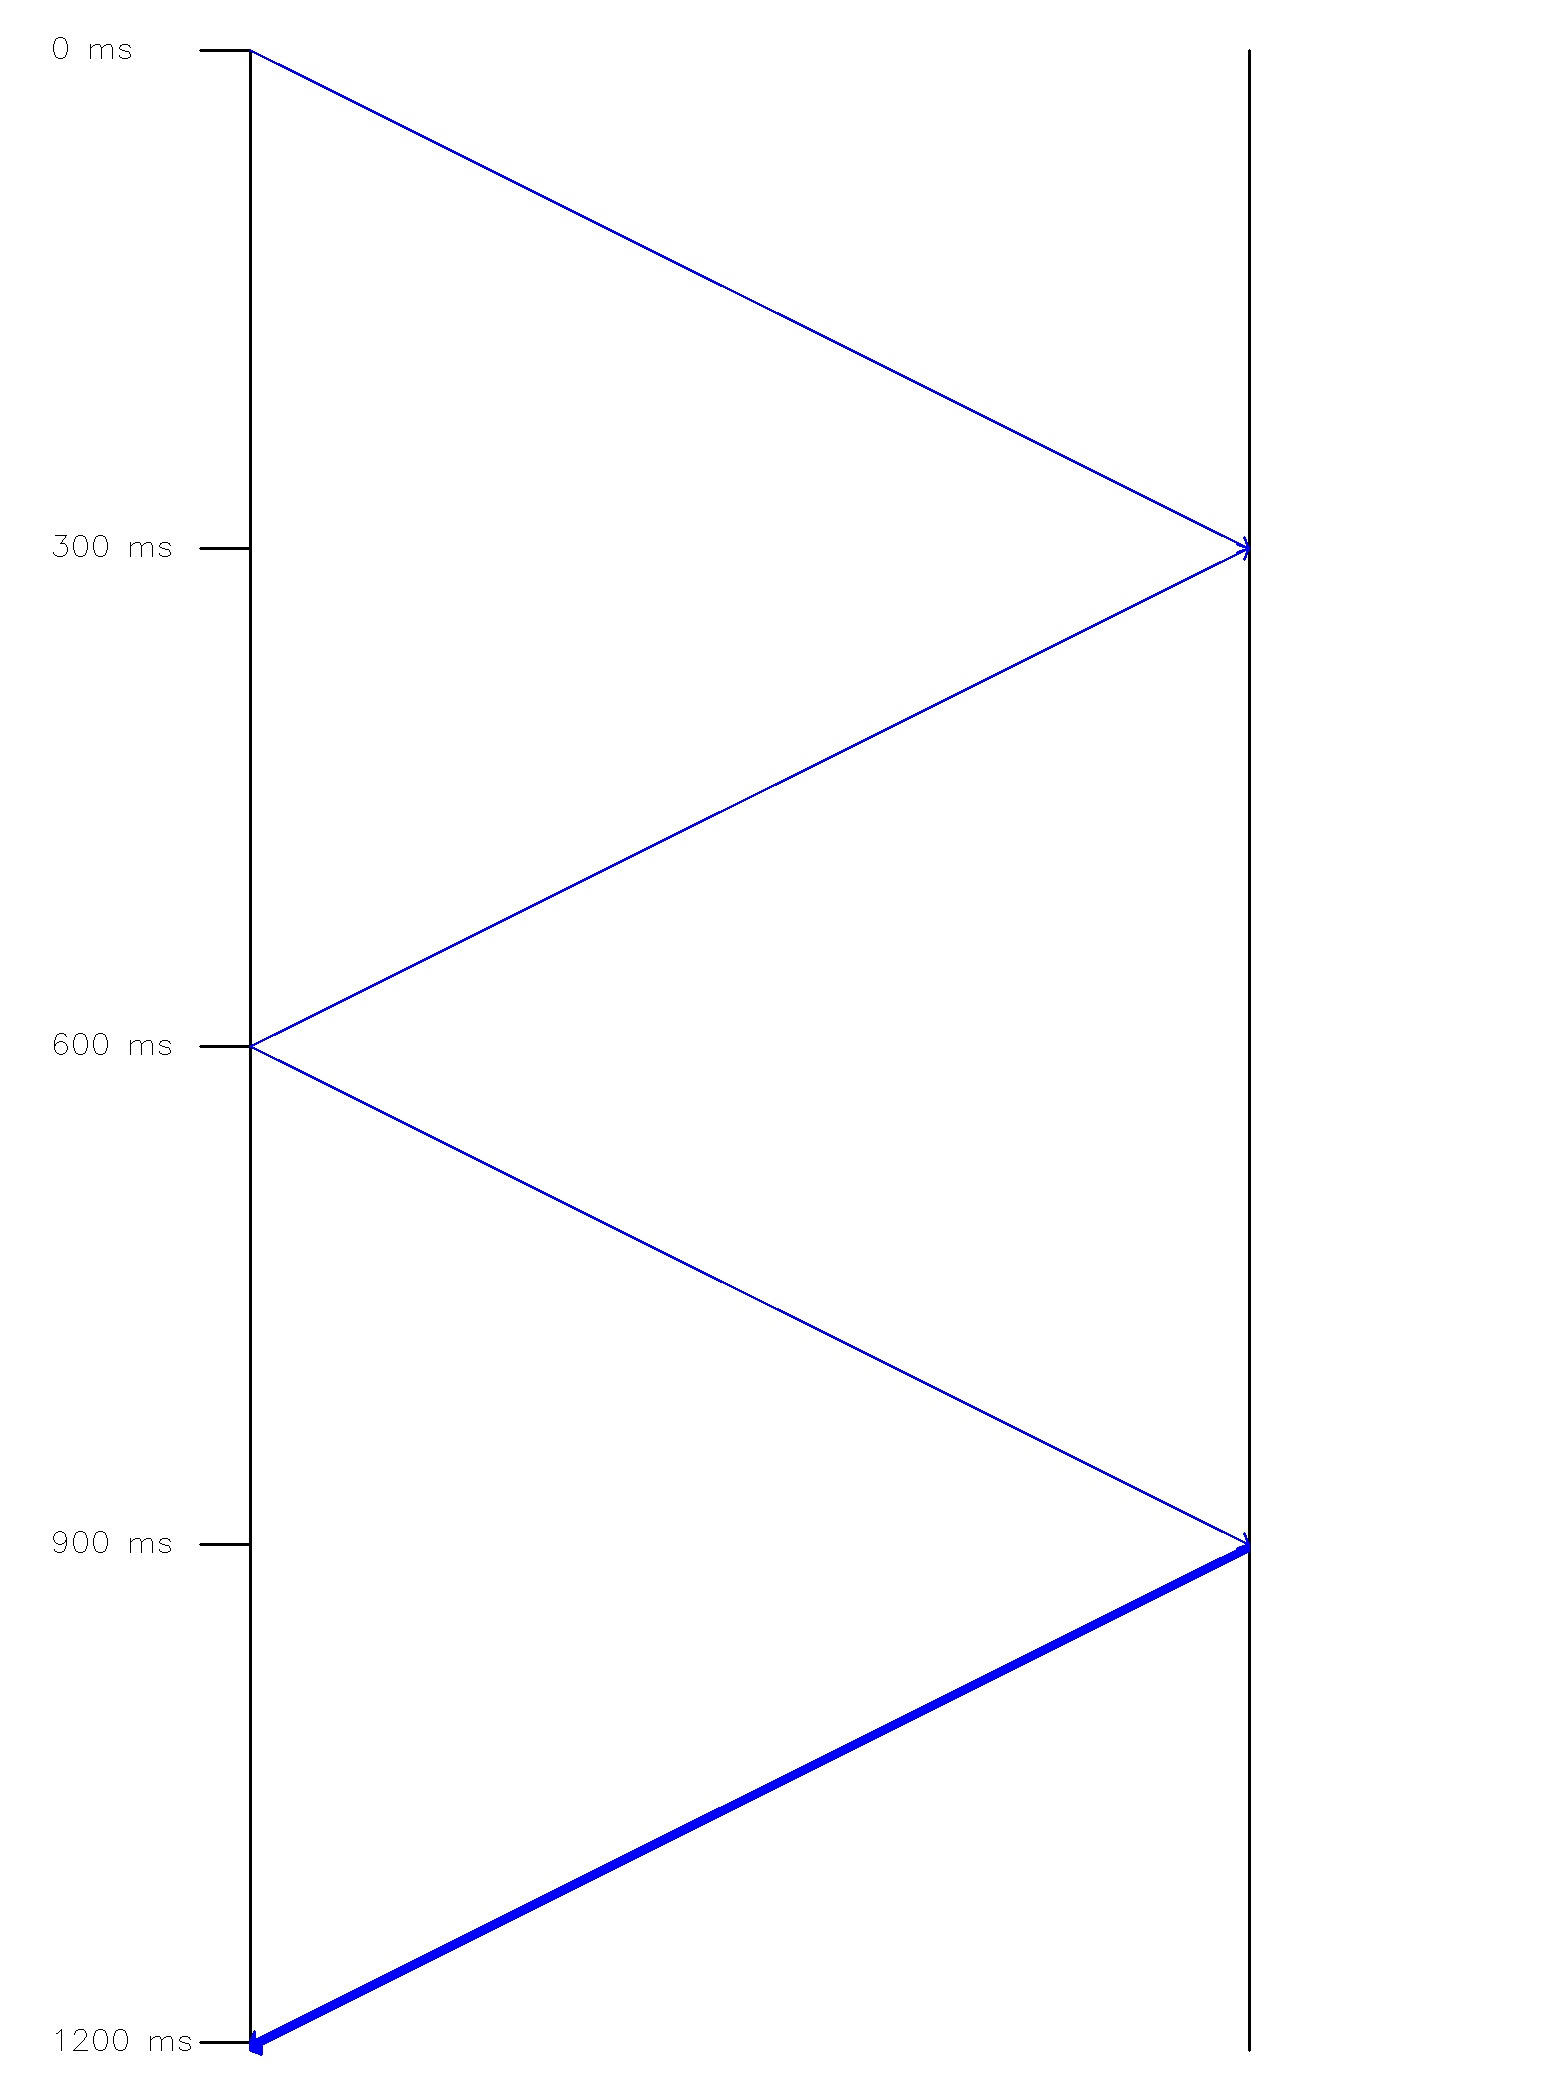
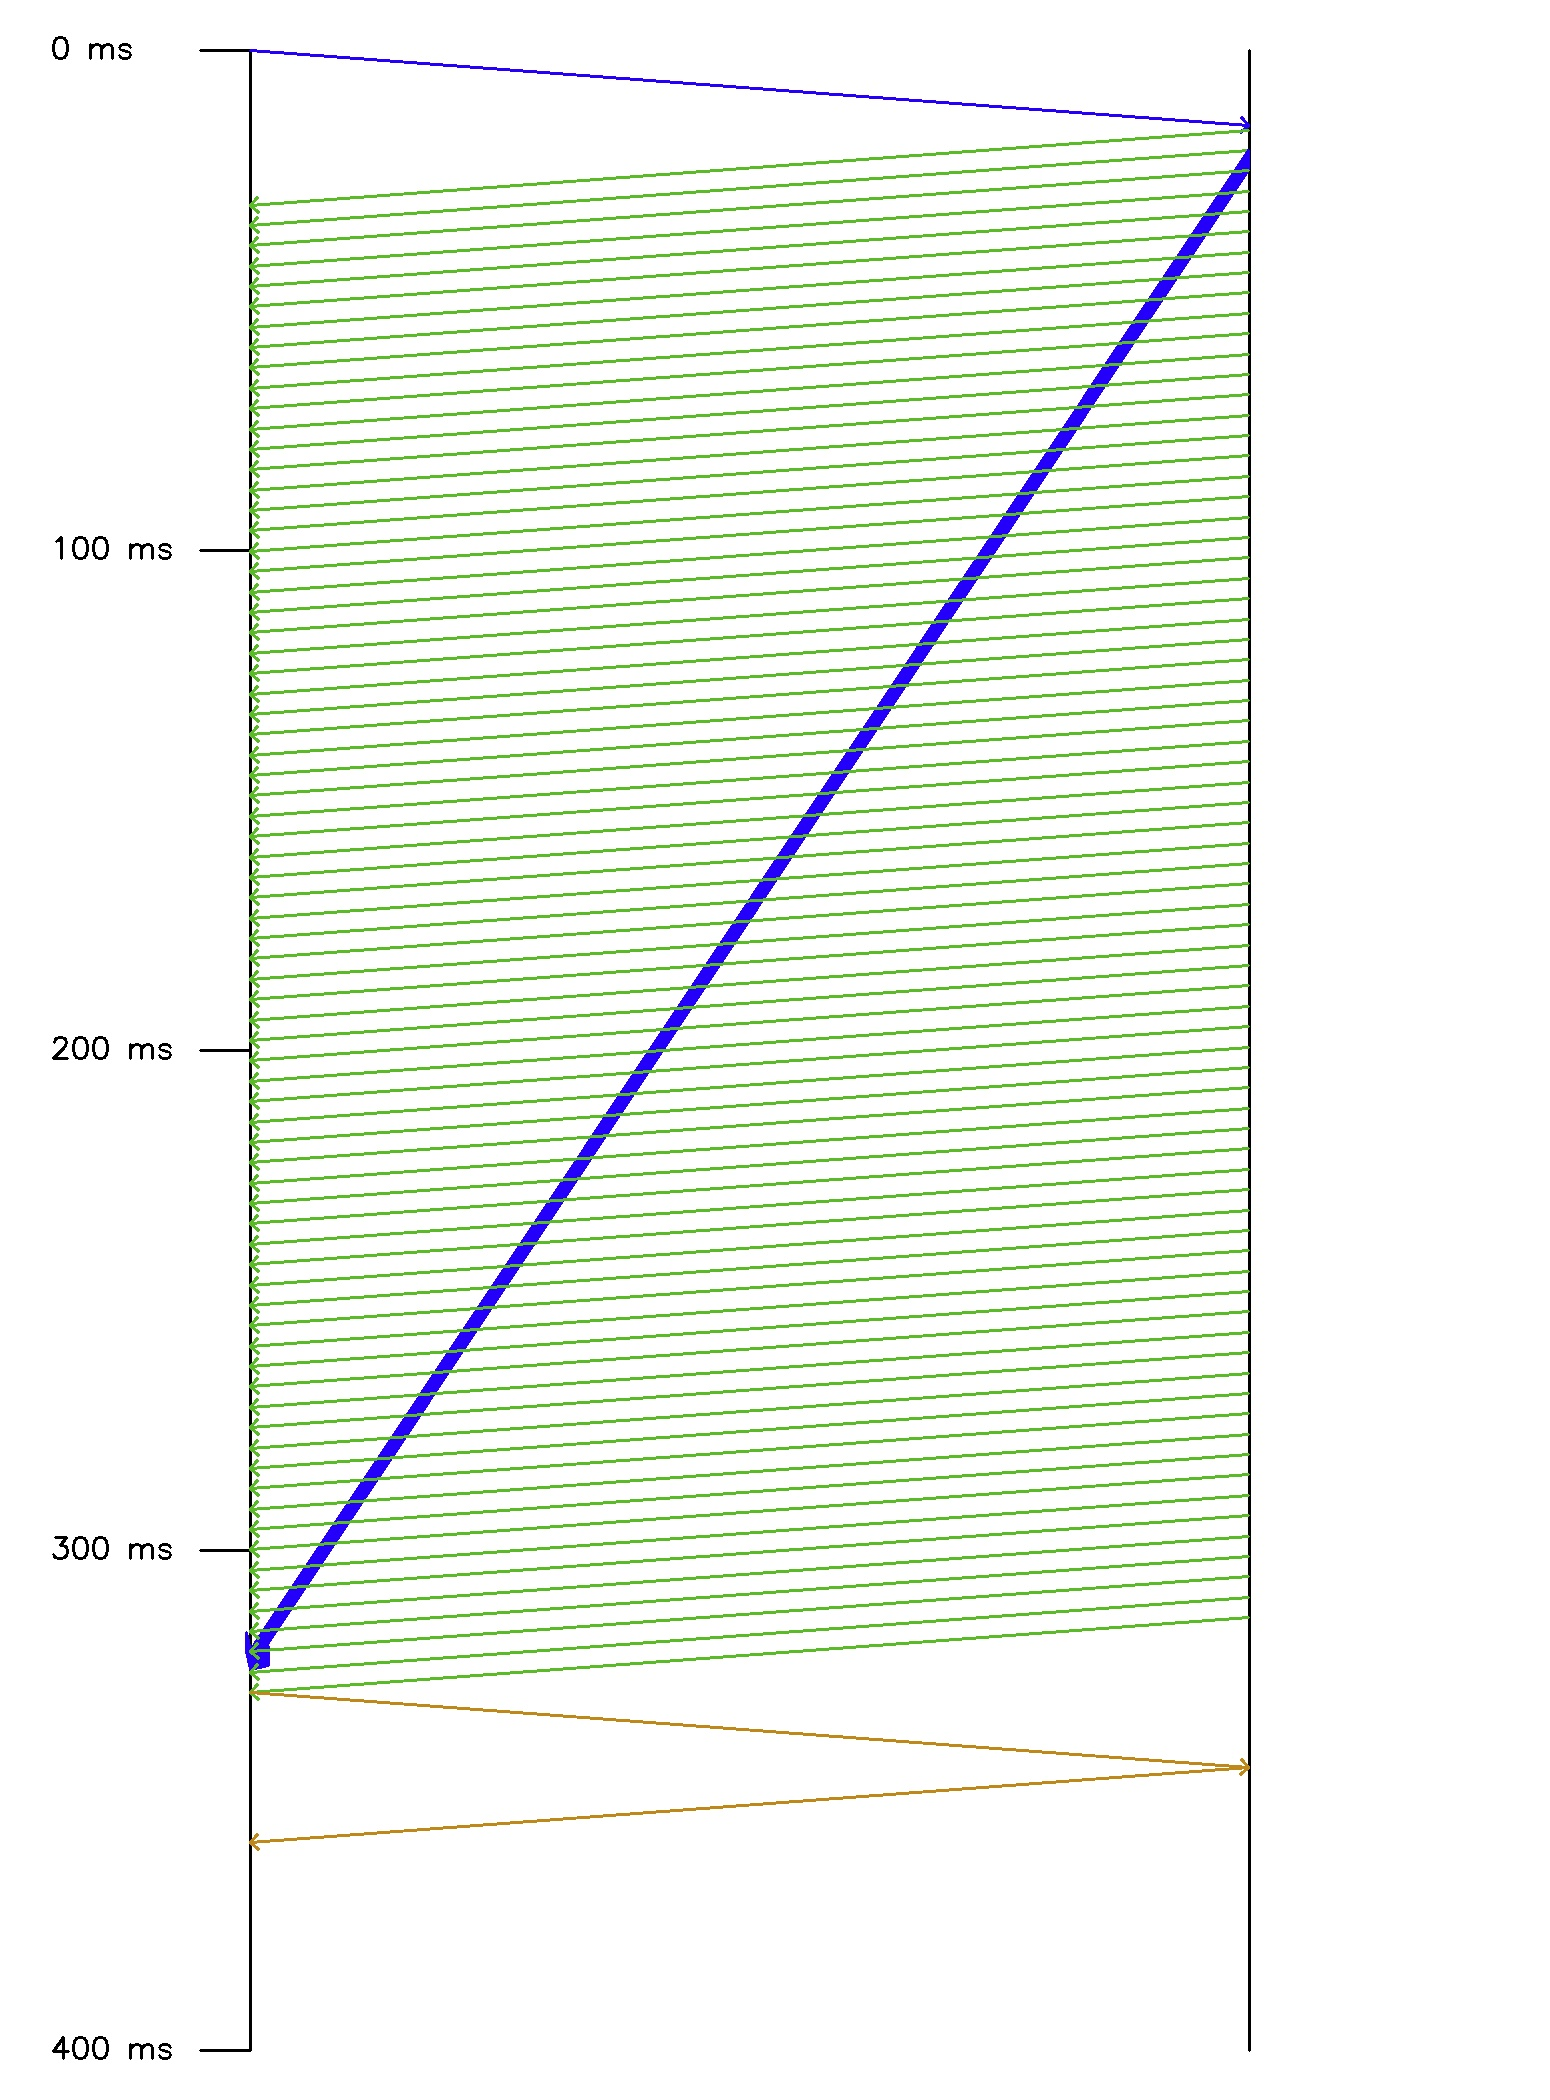
init

diff --git a/PlotMessageSequenceChartCalc.py b/PlotMessageSequenceChartCalc.py
@@ -120,7 +120,7 @@ IMG_WIDTH = 1250
 IMG_HEIGHT = 2000
 
 #us_to_height = IMG_HEIGHT / diff_timestamp
-us_to_height = IMG_HEIGHT / 1204000
+us_to_height = IMG_HEIGHT / 400000
 
 PADDING_LEFT = 250
 PADDING_RIGHT = 50
@@ -132,10 +132,10 @@ img.fill(255)
 
 # draw timestamps
 #step_timestamp = diff_timestamp / 4
-step_timestamp = 1200000 / 4
+step_timestamp = 400000 / 4
 for i in range(5):
     cv2.line(img, (PADDING_LEFT - 50, PADDING_TOP + int(i * step_timestamp * us_to_height)), (PADDING_LEFT, PADDING_TOP + int(i * step_timestamp * us_to_height)), (0, 0, 0), 2)
-    cv2.putText(img, str(int(i * step_timestamp / 1000)) + " ms", (50, PADDING_TOP + int(i * step_timestamp * us_to_height) + 8), cv2.FONT_HERSHEY_SIMPLEX, 1, (0, 0, 0), 1, 2)
+    cv2.putText(img, str(int(i * step_timestamp / 1000)) + " ms", (50, PADDING_TOP + int(i * step_timestamp * us_to_height) + 8), cv2.FONT_HERSHEY_SIMPLEX, 1, (0, 0, 0), 2, 2)
 
 # draw vertical lines
 cv2.line(img, (PADDING_LEFT, PADDING_TOP), (PADDING_LEFT, IMG_HEIGHT + PADDING_TOP), (0, 0, 0), 2)
@@ -152,19 +152,19 @@ for index, row in df[df["type"] == "local"].iterrows():
     packet_arrival = packet_arrival.to_dict()
     if row["direction"] == "out":
         if row["connection"] == TER_ID: # ter packet
-            color = (255, 0, 0)
+            color = (40, 186, 90)
         else: # sat packet
-            color = (0, 255, 0)
+            color = (250, 0, 36)
         if row["size"] == 32: # close packet
-            color = (0, 0, 255)
+            color = (26, 136, 190)
         cv2.arrowedLine(img, (PADDING_LEFT, PADDING_TOP + int((row["timestamp"] - min_timestamp) * us_to_height)), (IMG_WIDTH - 2, PADDING_TOP + int((packet_arrival["timestamp"][0] - min_timestamp) * us_to_height)), color, 2, tipLength=0.01)
     else:
         if row["connection"] == SAT_ID:
-            color = (255, 0, 0)
+            color = (250, 0, 36)
         else:
-            color = (0, 255, 0)
+            color = (40, 186, 90)
         if row["size"] == 32:
-            color = (0, 0, 255)
+            color = (26, 136, 190)
         cv2.arrowedLine(img, (IMG_WIDTH - 2, PADDING_TOP + int((packet_arrival["timestamp"][0] - min_timestamp) * us_to_height)), (PADDING_LEFT, PADDING_TOP + int((row["timestamp"] - min_timestamp) * us_to_height)), color, 2, tipLength=0.01)
 
 cv2.imshow("Test", img)

diff --git a/src/main.cpp b/src/main.cpp
@@ -27,28 +27,19 @@ int main(int argc, char *argv[]) {
     args::init(argc, argv);
 
     if (args::MODE == args::mode::LOCAL) { // local
-        if(args::TER_ENABLED) {
-            net::ipv4::SockAddr_In terSockAddr = net::ipv4::SockAddr_In(args::TER_STRING);
-            TER = new net::QuicClientConnection(terSockAddr.ip(), terSockAddr.port(), false, "ter_ticket_store.bin", "ter_token_store.bin");
-        }
-        if(args::SAT_ENABLED) {
-            net::ipv4::SockAddr_In satSockAddr = net::ipv4::SockAddr_In(args::SAT_STRING);
-            SAT = new net::QuicClientConnection(satSockAddr.ip(), satSockAddr.port(), true, "sat_ticket_store.bin", "sat_token_store.bin");
-        }
+        net::ipv4::SockAddr_In terSockAddr = net::ipv4::SockAddr_In(args::TER_STRING);
+        TER = new net::QuicClientConnection(terSockAddr.ip(), terSockAddr.port(), false, "ter_ticket_store.bin", "ter_token_store.bin");
+        net::ipv4::SockAddr_In sat_from_sockaddr = net::ipv4::SockAddr_In("172.30.20.2:6001");
+        net::ipv4::SockAddr_In sat_to_sockaddr = net::ipv4::SockAddr_In("172.30.21.3:6000");
+        int ret = ((net::QuicClientConnection *)TER)->probe_new_path((struct sockaddr*)&sat_from_sockaddr, (struct sockaddr*)&sat_to_sockaddr);
 
         net::Proxy proxy = net::Proxy(net::ipv4::SockAddr_In(args::PROXY_STRING));
 
         //exit when key pressed
         std::cin.ignore();
     } else { // remote
-        if(args::TER_ENABLED) {
-            net::ipv4::SockAddr_In terSockAddr = net::ipv4::SockAddr_In(args::TER_STRING);
-            TER = new net::QuicServerConnection(terSockAddr.port(), false);
-        }
-        if(args::SAT_ENABLED) {
-            net::ipv4::SockAddr_In satSockAddr = net::ipv4::SockAddr_In(args::SAT_STRING);
-            SAT = new net::QuicServerConnection(satSockAddr.port(), true);
-        }
+        net::ipv4::SockAddr_In terSockAddr = net::ipv4::SockAddr_In(args::TER_STRING);
+        TER = new net::QuicServerConnection(terSockAddr.port(), false);
 
         //exit when key pressed
         std::cin.ignore();

diff --git a/src/net/QuicClientConnection.cpp b/src/net/QuicClientConnection.cpp
@@ -76,6 +76,8 @@ namespace net {
                 picoquic_set_default_idle_timeout(_quic, 1000000000);
                 // https://github.com/private-octopus/picoquic/blob/1e2979e8db0957c8ee798940091c4d0ef13bf8af/picoquic/picoquic.h#L1088
                 picoquic_set_default_priority(_quic, 0xA);
+                // enable path callbacks
+                picoquic_enable_path_callbacks_default(_quic, 1);
             }
         }
 
@@ -319,6 +321,18 @@ namespace net {
                     connection->_disconnected = false;
 
                     break;
+                case picoquic_callback_path_available:
+                    LOG(INFO) << "picoquic_callback_path_available";
+                    break;
+                case picoquic_callback_path_suspended:
+                    LOG(INFO) << "picoquic_callback_path_suspended";
+                    break;
+                case picoquic_callback_path_deleted:
+                    LOG(INFO) << "picoquic_callback_path_deleted";
+                    break;
+                case picoquic_callback_path_quality_changed:
+                    LOG(INFO) << "picoquic_callback_path_quality_changed";
+                    break;
                 default:
                     LOG(INFO) << "default";
                     /* unexpected -- just ignore. */
@@ -404,6 +418,14 @@ namespace net {
         }
 
         //free_context(quicClientConnection);
+    }
+
+    int QuicClientConnection::probe_new_path(const struct sockaddr *addr_from, const struct sockaddr *addr_to) {
+        return picoquic_probe_new_path(_quic_cnx, addr_from, addr_to, picoquic_get_quic_time(_quic));
+    }
+
+    int QuicClientConnection::set_stream_path_affinity(uint64_t stream_id, uint64_t unique_path_id) {
+        return picoquic_set_stream_path_affinity(_quic_cnx, stream_id, unique_path_id);
     }
 
 } // net

diff --git a/PlotMessageSequenceCharCalcSat.py b/PlotMessageSequenceCharCalcSat.py
@@ -130,19 +130,19 @@ for index, row in df[df["type"] == "local"].iterrows():
     packet_arrival = packet_arrival.to_dict()
     if row["direction"] == "out":
         if row["connection"] == TER_ID: # ter packet
-            color = (0, 255, 0)
+            color = (40, 186, 90)
         else: # sat packet
-            color = (255, 0, 0)
+            color = (250, 0, 36)
         if row["size"] == 32: # close packet
-            color = (0, 0, 255)
+            color = (26, 136, 190)
         cv2.arrowedLine(img, (PADDING_LEFT, PADDING_TOP + int((row["timestamp"] - min_timestamp) * us_to_height)), (IMG_WIDTH - 2, PADDING_TOP + int((packet_arrival["timestamp"][0] - min_timestamp) * us_to_height)), color, 2, tipLength=0.01)
     else:
         if row["connection"] == SAT_ID:
-            color = (255, 0, 0)
+            color = (250, 0, 36)
         else:
-            color = (0, 255, 0)
+            color = (40, 186, 90)
         if row["size"] == 32:
-            color = (0, 0, 255)
+            color = (26, 136, 190)
         cv2.arrowedLine(img, (IMG_WIDTH - 2, PADDING_TOP + int((packet_arrival["timestamp"][0] - min_timestamp) * us_to_height)), (PADDING_LEFT, PADDING_TOP + int((row["timestamp"] - min_timestamp) * us_to_height)), color, 2, tipLength=0.01)
 
 cv2.imshow("Test", img)

diff --git a/src/net/QuicServerConnection.cpp b/src/net/QuicServerConnection.cpp
@@ -40,6 +40,8 @@ namespace net {
         picoquic_set_default_idle_timeout(_quic, 1000000000);
         // https://github.com/private-octopus/picoquic/blob/1e2979e8db0957c8ee798940091c4d0ef13bf8af/picoquic/picoquic.h#L1088
         picoquic_set_default_priority(_quic, 0xA);
+        // enable path callbacks
+        picoquic_enable_path_callbacks_default(_quic, 1);
 
         // start quic loop
         _packet_loop = std::async([this]{
@@ -306,6 +308,18 @@ namespace net {
                 // set _disconnected
                 connection->_disconnected = false;
 
+                break;
+            case picoquic_callback_path_available:
+                LOG(INFO) << "picoquic_callback_path_available";
+                break;
+            case picoquic_callback_path_suspended:
+                LOG(INFO) << "picoquic_callback_path_suspended";
+                break;
+            case picoquic_callback_path_deleted:
+                LOG(INFO) << "picoquic_callback_path_deleted";
+                break;
+            case picoquic_callback_path_quality_changed:
+                LOG(INFO) << "picoquic_callback_path_quality_changed";
                 break;
             default:
                 LOG(INFO) << "default";

diff --git a/src/net/QuicClientConnection.h b/src/net/QuicClientConnection.h
@@ -19,6 +19,10 @@ namespace net {
     public:
         QuicClientConnection(std::string server_name, int port, bool is_sat, std::string ticket_store_name, std::string token_store_name);
 
+        // paths
+        int probe_new_path(const struct sockaddr* addr_from, const struct sockaddr* addr_to);
+        int set_stream_path_affinity(uint64_t stream_id, uint64_t unique_path_id);
+
         std::string to_string() override;
 
         virtual ~QuicClientConnection();
